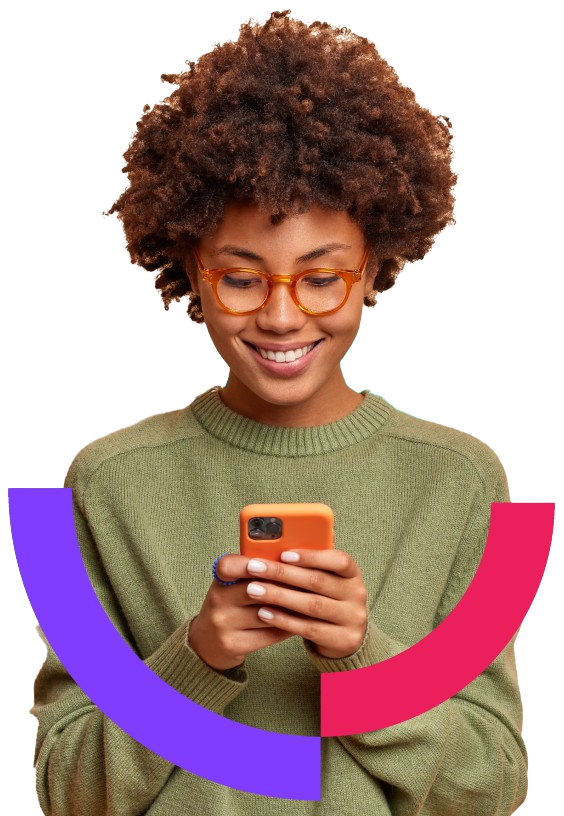
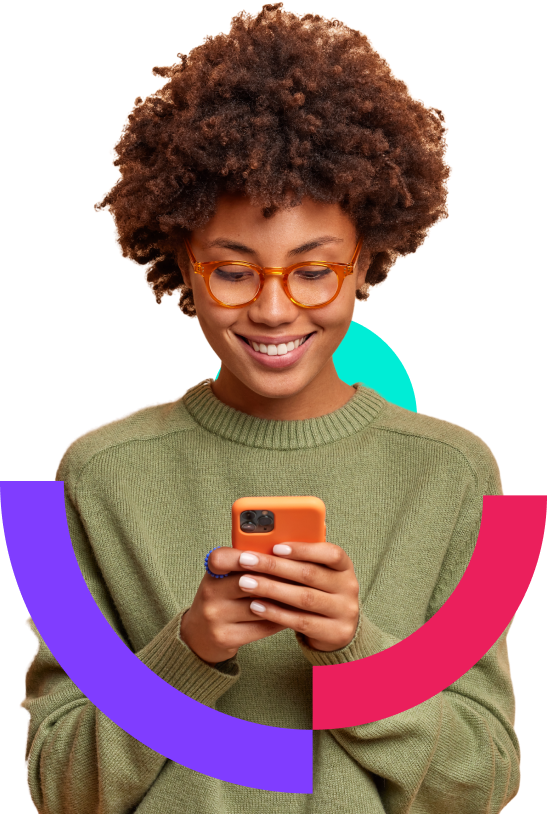
home ok

Changed region(s): [[0.0, 0.0, 1.0, 1.0], [0.0311, 0.7064, 0.0622, 0.7678]]

diff --git a/src/views/pages/home/components/home-start.vue b/src/views/pages/home/components/home-start.vue
@@ -31,9 +31,7 @@
       <img width="150" :src="require('@/assets/images/logo/logo.gif')" />
     </section>
     <section class="home-start-como-funciona mb-5">
-      <h1 class="text-center mb-5 pb-5">
-        Agende sua consulta em apenas 3 passos.
-      </h1>
+      <h1 class="text-center mb-5">Agende sua consulta em apenas 3 passos.</h1>
 
       <!-- PASSO 1 -->
       <div class="box-passo mb-5">
@@ -43,20 +41,24 @@
             Escolha entre os profissionais cadastrados e certificados, o que
             mais se identifique com seu perfil.
           </p>
+          <img
+            id="seta-1"
+            :src="require('@/assets/images/home/passo-seta-1.png')"
+          />
         </div>
         <div>
           <img
-            width="100%"
+            style="max-width: 500px; width: 100%"
             :src="require('@/assets/images/home/passo-1.png')"
           />
         </div>
       </div>
 
       <!-- PASSO 2 -->
-      <div class="box-passo mb-5 align-items-center">
+      <div class="box-passo mb-5 mb-lg-0">
         <div class="order-2 order-md-1">
           <img
-            width="100%"
+            style="max-width: 500px; width: 100%"
             :src="require('@/assets/images/home/passo-2.png')"
           />
         </div>
@@ -65,7 +67,11 @@
             2 - Selecione a data e horário desejado, realize o pagamento de sua
             preferência e pronto. <br />Horário confirmado!
           </h1>
-          <strong class="text-justify"></strong>
+          <p class="text-justify"></p>
+          <img
+            id="seta-2"
+            :src="require('@/assets/images/home/passo-seta-2.png')"
+          />
         </div>
       </div>
 
@@ -80,7 +86,7 @@
         </div>
         <div>
           <img
-            width="100%"
+            style="max-width: 500px; width: 100%"
             :src="require('@/assets/images/home/passo-3.png')"
           />
         </div>
@@ -117,7 +123,6 @@ export default {
 </script>
 <style>
 .home-start-psi {
-  justify-content: space-between;
   display: flex;
   min-height: 100vh;
 }
@@ -140,8 +145,9 @@ export default {
   padding-top: 4px;
   padding-bottom: 4px;
   font-weight: 600;
-  margin-top: 33%;
-  min-width: 603px;
+  margin-top: 20%;
+  min-width: 850px;
+  font-size: 40px;
 }
 
 #home-start-section strong {
@@ -166,7 +172,7 @@ export default {
 }
 
 #home-start-section-img {
-  justify-content: right;
+  justify-content: left;
   align-items: initial;
   display: flex;
 }
@@ -177,6 +183,8 @@ export default {
 
 .home-start-como-funciona h1 {
   font-size: 4rem;
+  font-weight: 600;
+  color: #000;
 }
 
 .box-passo {
@@ -213,23 +221,22 @@ export default {
   max-width: 55%;
   text-align: justify;
 }
+
 .home-start-section-indicate {
   visibility: visible;
 }
 
 @media screen and (max-width: 1550px) {
   .home-start-section-indicate {
-    visibility: hidden;
+    margin-top: -20%;
+    margin-bottom: 1%;
   }
   #home-start-section-img img {
-    height: 83%;
+    height: 79%;
   }
 }
 
 @media screen and (max-width: 1383px) {
-  .home-start-section-indicate {
-    visibility: hidden;
-  }
   #home-start-section-img {
     justify-content: center;
   }
@@ -257,12 +264,14 @@ export default {
   .box-comece-agora h1 {
     font-size: 2.1rem;
   }
+  .home-start-section-indicate {
+    content-visibility: hidden;
+    margin-top: initial;
+    margin-bottom: initial;
+  }
 }
 
 @media screen and (max-width: 600px) {
-  .home-start-section-indicate {
-    visibility: hidden;
-  }
   #home-start-section-img img {
     width: 100%;
   }
@@ -306,6 +315,18 @@ export default {
   }
   #home-start-section h1 {
     margin-top: 0.1vh;
+  }
+  #seta-1 {
+    display: none;
+  }
+  #seta-2 {
+    display: none;
+  }
+  .home-start-psi {
+    min-height: 0vh;
+  }
+  .home-start-section-indicate {
+    content-visibility: hidden;
   }
 }
 </style>

diff --git a/src/views/pages/home/index.vue b/src/views/pages/home/index.vue
@@ -39,7 +39,7 @@ export default {
 }
 @media screen and (max-width: 1500px) {
   #main-page {
-    max-width: 1000px;
+    max-width: 1200px;
   }
 }
 @media screen and (max-width: 1400px) {
